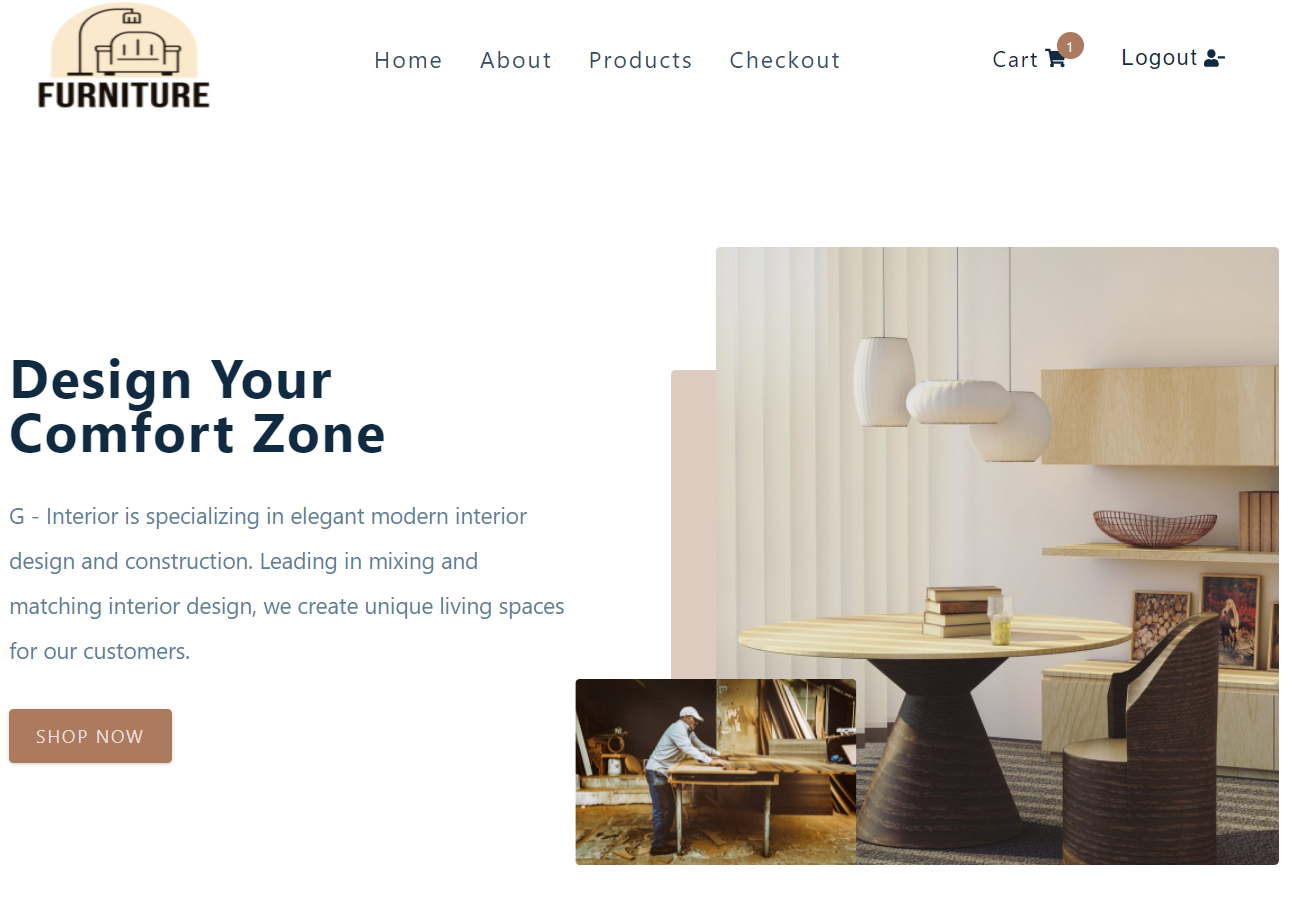
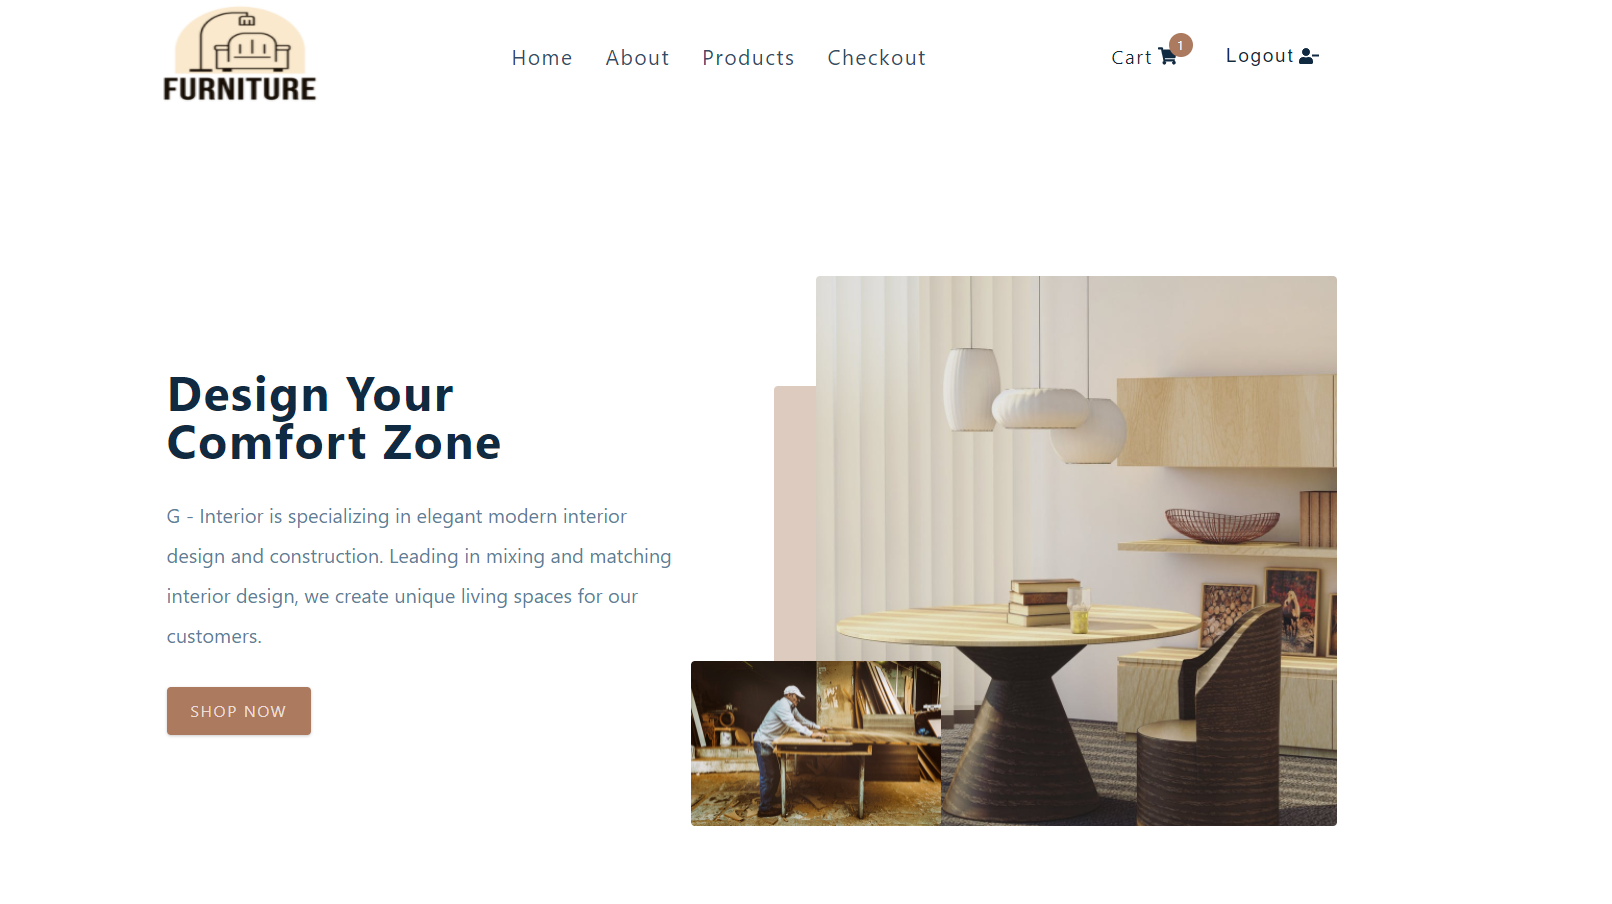
update project page

diff --git a/src/pages/ProjectPage.js b/src/pages/ProjectPage.js
@@ -1,40 +1,188 @@
 import React from 'react';
 import styled from 'styled-components';
 import gInterior from '../assets/images/gInterior.PNG';
+import corpVision from '../assets/images/corpVision.PNG';
+import gitHubUser from '../assets/images/gitHubUser.PNG';
 
 function ProjectPage() {
   return (
-    <Wrapper className="container">
-      <div className="title">
-        <span>some of my recent work</span>
-        <h2>PROJECT</h2>
-      </div>
-      <div className="project__item">
-        <div className="project__img">
-          <img src={gInterior} alt="gInterior" />
+    <>
+      <Wrapper className="container">
+        <div className="title">
+          <span>some of my recent work</span>
+          <h2>PROJECT</h2>
         </div>
-        <div className="project__info">
-          <h2>Interior E-commerce Website</h2>
+        <div className="project">
+          <div className="project__item">
+            <div className="project__img">
+              <img src={gInterior} alt="gInterior" />
+            </div>
+            <div className="project__info">
+              <h2>G - Interior Website</h2>
+            </div>
+            <div>
+              <a
+                href="https://ginterior.netlify.app/"
+                target="_blank"
+                className="btn"
+                rel="noreferrer"
+              >
+                View Project
+              </a>
+            </div>
+          </div>
+          <div className="project__brief">
+            <h2>Overview</h2>
+            <p>An Interior E-commerce Website.</p>
+            <p>
+              This website allow customer can view list of sortable products and
+              buy it also
+            </p>
+            <h2>Technology Used</h2>
+            <div className="techStack">
+              <button type="button" className="btn2">
+                ReactJS
+              </button>
+              <button type="button" className="btn2">
+                Styled Component
+              </button>
+              <button type="button" className="btn2">
+                CSS3
+              </button>
+              <button type="button" className="btn2">
+                React Router
+              </button>
+              <button type="button" className="btn2">
+                CSS3
+              </button>
+              <button type="button" className="btn2">
+                HTML5
+              </button>
+              <button type="button" className="btn2">
+                Public API
+              </button>
+            </div>
+          </div>
         </div>
-        <div>
-          <button type="button" className="btn">
-            View Project
-          </button>
+        <hr />
+        <div className="project">
+          <div className="project__item">
+            <div className="project__img">
+              <img src={corpVision} alt="gInterior" />
+            </div>
+            <div className="project__info">
+              <h2>Corp Vision Website</h2>
+            </div>
+            <div>
+              <a
+                href="https://corp-vision.netlify.app/"
+                target="_blank"
+                className="btn"
+                rel="noreferrer"
+              >
+                View Project
+              </a>
+            </div>
+          </div>
+          <div className="project__brief">
+            <h2>Overview</h2>
+            <p>A landing page.</p>
+            <p>
+              This website help corporation introducing about what they are
+              provide to customer
+            </p>
+            <h2>Technology Used</h2>
+            <div className="techStack">
+              <button type="button" className="btn2">
+                JavaScript
+              </button>
+              <button type="button" className="btn2">
+                Bootstrap4
+              </button>
+              <button type="button" className="btn2">
+                CSS3
+              </button>
+              <button type="button" className="btn2">
+                HTML5
+              </button>
+              <button type="button" className="btn2">
+                Jquery
+              </button>
+            </div>
+          </div>
         </div>
-      </div>
-    </Wrapper>
+        <hr />
+        <div className="project">
+          <div className="project__item">
+            <div className="project__img">
+              <img src={gitHubUser} alt="gInterior" />
+            </div>
+            <div className="project__info">
+              <h2>Github User Search Page</h2>
+            </div>
+            <div>
+              <a
+                href="https://search-githubser.netlify.app/"
+                target="_blank"
+                className="btn"
+                rel="noreferrer"
+              >
+                View Project
+              </a>
+            </div>
+          </div>
+          <div className="project__brief">
+            <h2>Overview</h2>
+            <p>
+              This website allow people searching for specific Github User and
+              provide a overview informative chart about this user.
+            </p>
+            <h2>Technology Used</h2>
+            <div className="techStack">
+              <button type="button" className="btn2">
+                ReactJS
+              </button>
+              <button type="button" className="btn2">
+                HTML5
+              </button>
+              <button type="button" className="btn2">
+                Github API
+              </button>
+              <button type="button" className="btn2">
+                React Router
+              </button>
+              <button type="button" className="btn2">
+                Styled Component
+              </button>
+            </div>
+          </div>
+        </div>
+      </Wrapper>
+    </>
   );
 }
 const Wrapper = styled.div`
   padding-top: 10rem;
+  position: relative;
+  .project__brief {
+    display: none;
+  }
+  .project {
+    padding-top: 5rem;
+    h2 {
+      padding: 1rem 0;
+      font-size: 2rem;
+    }
+  }
   .project__item {
     margin: 5rem 0;
     display: flex;
-    flex-wrap: wrap;
+    flex-direction: column;
     justify-content: center;
+    align-items: center;
   }
   .project__img {
-    max-width: 400px;
+    max-width: 500px;
     height: auto;
     transition: var(--transition);
     overflow: hidden;
@@ -43,18 +191,37 @@ const Wrapper = styled.div`
       border-radius: var(--radius);
       transition: var(--transition);
       object-fit: contain;
-      filter: grayscale(50%) contrast(50%);
       border: 2px solid var(--gray-1);
     }
     &:hover img {
       transform: scale(1.2);
-      filter: grayscale(0) contrast(100%);
     }
   }
-  .project__info {
-    h2 {
-      padding: 1rem 0;
-      font-size: 2rem;
+  .btn {
+    padding: 0.5em 1.5em;
+    font-size: 1.5rem;
+  }
+  /* For desktop */
+  @media (min-width: 920px) {
+    .project {
+      display: grid;
+      grid-template-columns: 1fr 1fr;
+      gap: 2rem;
+    }
+
+    .project__brief {
+      display: block;
+      margin: 5rem;
+    }
+    .techStack {
+      display: flex;
+      justify-content: space-between;
+      gap: 2rem;
+      flex-wrap: wrap;
+      .btn2 {
+        font-size: 1.5rem;
+        padding: 0.5em 1.5em;
+      }
     }
   }
 `;

diff --git a/src/components/ProjectModal.js b/src/components/ProjectModal.js
@@ -1,0 +1,81 @@
+import React from 'react';
+import styled from 'styled-components';
+import gInterior from '../assets/images/gInterior.PNG';
+
+function ProjectModal() {
+  const closeModal = () => {};
+  return (
+    <Wrapper>
+      <div className="overlay">
+        <div className="project__modal">
+          <div className="modal__img">
+            <img src={gInterior} alt="" />
+          </div>
+          <div className="modal__infor">
+            <h2>Interior Portfolio Website</h2>
+            <span>
+              Lorem ipsum dolor sit amet consectetur adipisicing elit.
+              Voluptates, nam?
+            </span>
+            <p>
+              <strong>Created -</strong> July 2021
+            </p>
+            <p>
+              <strong>Role -</strong> Front End
+            </p>
+            <p>
+              <strong>View Online -</strong> ginterior.nettify.app
+            </p>
+          </div>
+        </div>
+      </div>
+    </Wrapper>
+  );
+}
+
+const Wrapper = styled.div`
+  height: 100vh;
+  position: relative;
+  width: 100%;
+  .project__modal {
+    position: absolute;
+    top: 0;
+    left: 50%;
+    z-index: 105;
+    background-color: var(--gray-1);
+    padding: 5rem;
+    border-radius: 1rem;
+    transform: translate(-50%, 50%);
+    p,
+    h2,
+    span,
+    strong {
+      color: var(--deep-dark);
+    }
+    img {
+      border-radius: var(--radius);
+      max-width: 900px;
+      height: 300px;
+    }
+    h2 {
+      font-size: 2rem;
+      padding: 1rem 0;
+    }
+    span {
+      font-size: 1.5rem;
+      padding-bottom: 1rem;
+      font-weight: lighter;
+    }
+  }
+  .overlay {
+    position: fixed;
+    top: 0;
+    bottom: 0;
+    height: 100%;
+    width: 100%;
+    background-color: rgba(7, 7, 7, 0.5);
+    z-index: 104;
+  }
+`;
+
+export default ProjectModal;

diff --git a/src/components/NavBar.js b/src/components/NavBar.js
@@ -16,7 +16,7 @@ export default function NavBar() {
   };
 
   return (
-    <NavContainer className="container">
+    <NavContainer className="containerNav">
       <button
         type="button"
         className="toggle__btn"
@@ -58,9 +58,13 @@ const NavContainer = styled.nav`
   right: 0;
   height: 7rem;
   z-index: 100;
-
   background-color: var(--dark-bg);
 
+  .containerNav {
+    width: 100%;
+    max-width: 1200px;
+    margin: 0 auto;
+  }
   .toggle__btn {
     position: absolute;
     right: 1rem;

diff --git a/src/components/HomeHero.js b/src/components/HomeHero.js
@@ -11,7 +11,7 @@ export default function HomeHero() {
   return (
     <Wrapper className="page container">
       <div className="hero__title">
-        <span>Hello, this is</span>
+        <span>hello, this is</span>
         <h2 className="hero__title__name">Nhan Nguyen</h2>
       </div>
       <div className="hero__img">

diff --git a/src/globalStyles/GlobalStyles.js b/src/globalStyles/GlobalStyles.js
@@ -55,6 +55,12 @@ h1,h3,h4,h5{
   font-weight: bold;
 }
 
+p{
+  font-size: 1.5rem;
+  padding: 0.25rem;
+  line-height: 2.5rem;
+}
+
 .title{
   text-align: center;
   span{
